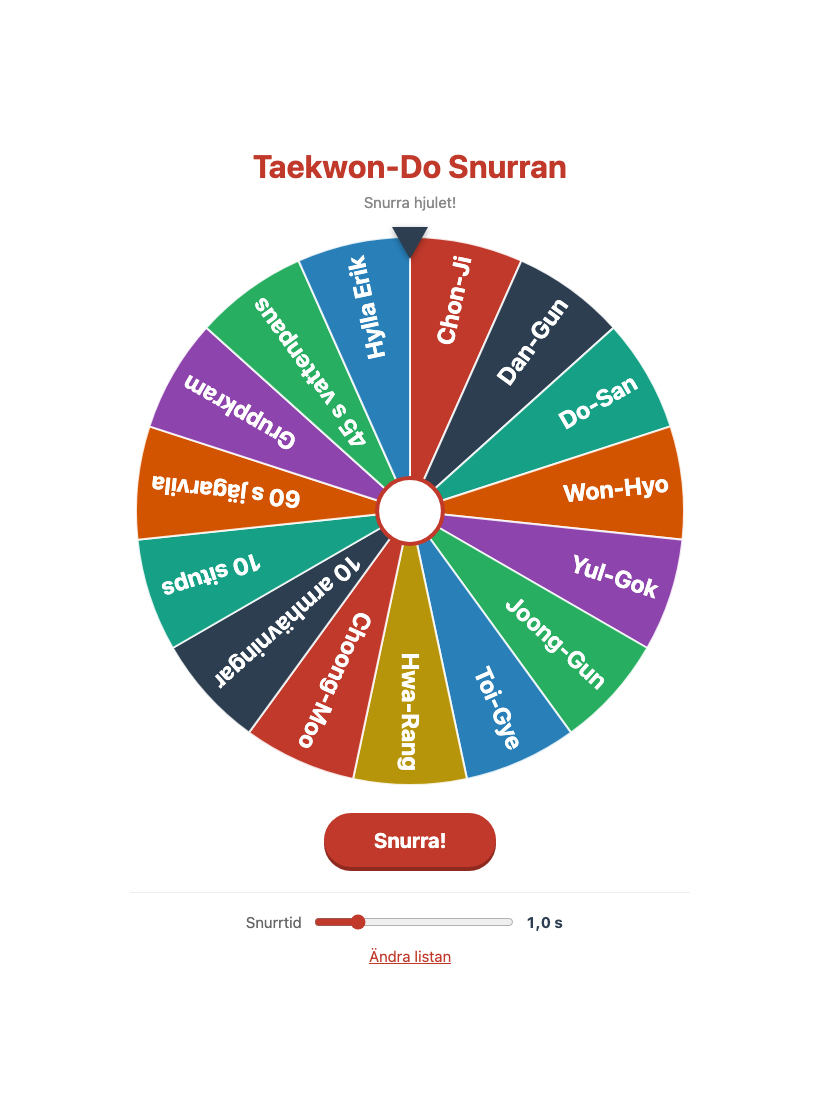
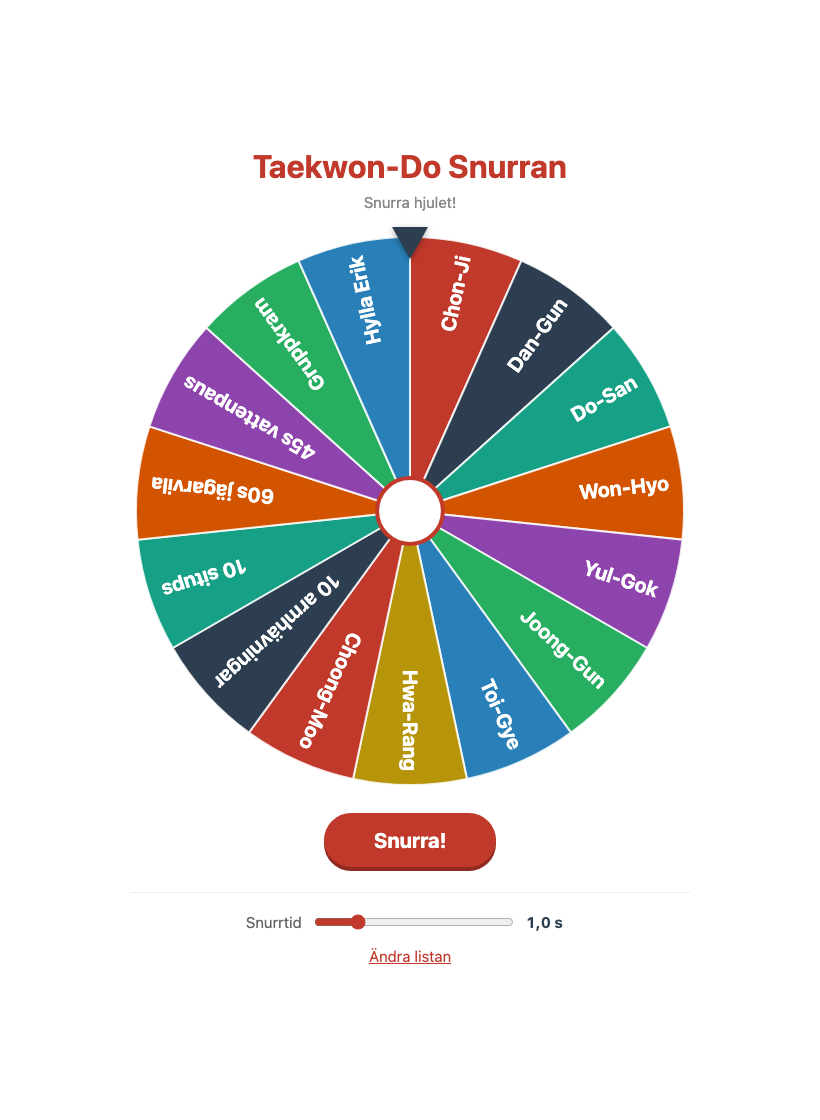
Shrink wheel labels and keep them clear of the hub
Scale the label font down 15% and subtract the hub radius from the
available text width, so long names no longer run into the centre
circle on small screens.

diff --git a/labs/snurran/index.html b/labs/snurran/index.html
@@ -344,6 +344,7 @@
         ];
 
         const STORAGE_KEY = 'tkd-snurran-items';
+        const TEXT_SCALE = 0.85;
         const MAX_DURATION = 3;
 
         const canvas = document.getElementById('wheel');
@@ -416,6 +417,7 @@
             const radius = size / 2 - 6;
             const n = items.length;
             const arc = (2 * Math.PI) / n;
+            const hubRadius = Math.max(22, radius * 0.12);
 
             ctx.clearRect(0, 0, size, size);
 
@@ -440,8 +442,9 @@
                 ctx.textBaseline = 'middle';
                 ctx.fillStyle = 'white';
 
-                let fontSize = Math.min(24, Math.max(9, (arc * radius) * 0.55));
-                const maxWidth = radius - 34;
+                let fontSize = Math.min(24, Math.max(9, (arc * radius) * 0.55)) * TEXT_SCALE;
+                // Sluta innan navet så texten inte klistrar sig mot mitten
+                const maxWidth = radius - 14 - hubRadius - 8;
                 do {
                     ctx.font = 'bold ' + fontSize + 'px -apple-system, BlinkMacSystemFont, "Segoe UI", Roboto, sans-serif';
                     if (ctx.measureText(items[i]).width <= maxWidth) break;
@@ -454,7 +457,7 @@
 
             // Nav i mitten
             ctx.beginPath();
-            ctx.arc(cx, cy, Math.max(22, radius * 0.12), 0, 2 * Math.PI);
+            ctx.arc(cx, cy, hubRadius, 0, 2 * Math.PI);
             ctx.fillStyle = 'white';
             ctx.fill();
             ctx.strokeStyle = '#c0392b';
